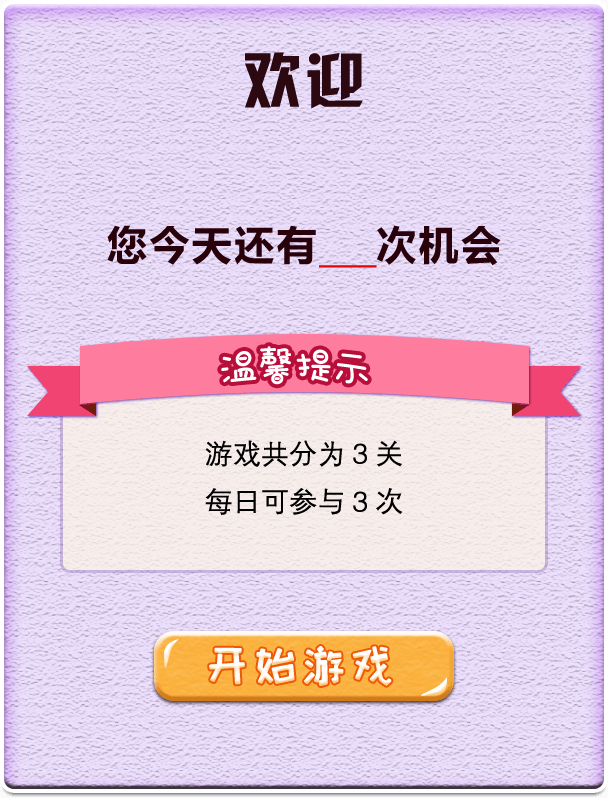
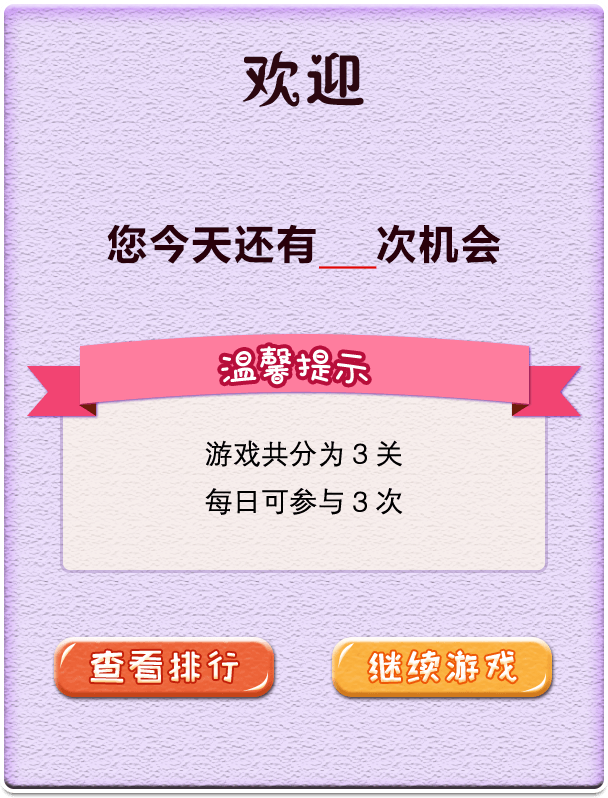
upgrade

diff --git a/src/pages/login.ts b/src/pages/login.ts
@@ -29,8 +29,6 @@ namespace pages {
 			let startButton: egret.Sprite = new layer.ui.BlankButtonUI("click_mp3");
 			startButton.name = 'start-button';
 			startButton.touchEnabled = true;
-			startButton.width = 310;
-			startButton.height = 75;
 			startButton.addEventListener(egret.TouchEvent.TOUCH_TAP, this.nextPage, this);
 			this.addChild(startButton);
 
@@ -41,14 +39,31 @@ namespace pages {
 
 				startButton.x = 220;
 				startButton.y = 1074;
+				startButton.width = 310;
+				startButton.height = 75;
 			}
 			else
 			{
 				let infoSprite = new pages.login.InfoSprite;
 				this.addChild(infoSprite);
 
-				startButton.x = 220;
-				startButton.y = 957;
+				startButton.x = 400;
+				startButton.y = 960;
+				startButton.width = 230;
+				startButton.height = 65;
+
+				let rankButton: egret.Sprite = new layer.ui.BlankButtonUI("click_mp3");
+				rankButton.name = 'rank-button';
+				rankButton.touchEnabled = true;
+				rankButton.x = 120;
+				rankButton.y = 960;
+				rankButton.width = 230;
+				rankButton.height = 65;
+				rankButton.once(egret.TouchEvent.TOUCH_TAP, () => {
+					new RankPage();
+				}, this);
+				this.addChild(rankButton);
+				
 			}
 			
 		}

diff --git a/src/pages/rank.ts b/src/pages/rank.ts
@@ -19,17 +19,29 @@ namespace pages {
 
 			let frameSprite: layer.ui.BitmapUI = new layer.ui.BitmapUI("rank_frame_png");
 			frameSprite.x = 48;
-			frameSprite.y = 63;
+			frameSprite.y = 48;
 			this.addChild(frameSprite);
 
 			let rankSprite: pages.rank.RankSprite = new pages.rank.RankSprite();
-			rankSprite.x = 85;
-			rankSprite.y = 230;
+			rankSprite.x = 84;
+			rankSprite.y = 177;
 			this.addChild(rankSprite);
 
 			network.topQuery().then(data => {
 				rankSprite.data = data;
 			});
+
+			let homeButton: egret.Sprite = new layer.ui.BlankButtonUI("click_mp3");
+			homeButton.name = 'rank-button';
+			homeButton.touchEnabled = true;
+			homeButton.x = 241;
+			homeButton.y = 1068;
+			homeButton.width = 311;
+			homeButton.height = 78;
+			homeButton.once(egret.TouchEvent.TOUCH_TAP, () => {
+				window.location.href = window['baseURI'] + 'crush?_=' + Math.random();
+			}, this);
+			this.addChild(homeButton);
 		}
 
 		public removeAllEventListeners(): void {
